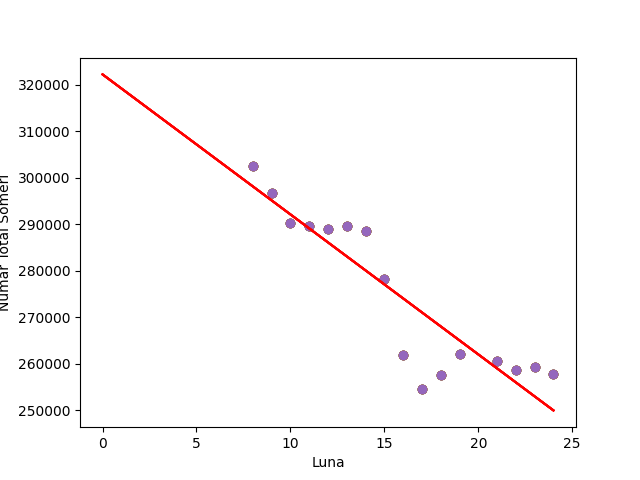
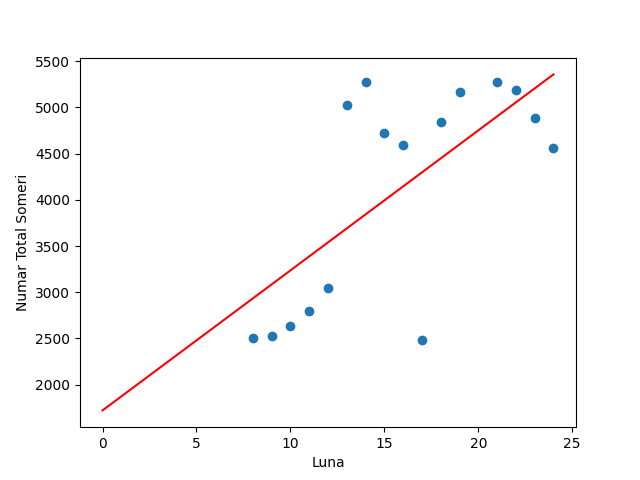
Fixed minor issues regarding PredictionApp

diff --git a/PredictionApp/unemployed_data.py b/PredictionApp/unemployed_data.py
@@ -9,18 +9,19 @@ class UnemployedData:
         month = None;
 
     @staticmethod
-    def extract_data(input_document_format, plot_file_format, output_file_format, feature_name, label_name):
+    def extract_data(input_document_format, column_number, epochs, plot_file_format, output_file_format, feature_name, label_name):
         years = [2018, 2019];
         months = ['ianuarie', 'februarie', 'martie', 'aprilie', 'mai', 'iunie', 'iulie', 'august', 'septembrie', 'octombrie', 'noiembrie', 'decembrie'];
 
         documents = UnemployedData.get_unemployed_data(input_document_format, years, months);
-        dataframe = UnemployedData.map_dataframe(documents);
+        dataframe = UnemployedData.map_dataframe(documents, column_number);
 
         datalist = lr.LinearRegression.get_datalist_from_dataframe(dataframe);
-        [w0, w1] = lr.LinearRegression.linear_regression(datalist, 100000, label_name);
+        [w0, w1] = lr.LinearRegression.linear_regression(datalist, epochs, label_name);
 
         plot = lr.LinearRegression.plot_model(w0, w1, datalist,  'Luna', 'Numar Total Someri');
         plot.savefig(plot_file_format);
+        plot.close();
 
         output_file = open(output_file_format, 'w');
         output_file_content = 'w0 = %f\nw1 = %f' % (w0, w1);
@@ -45,13 +46,13 @@ class UnemployedData:
         return documents;
 
     @staticmethod
-    def map_dataframe(documents):
+    def map_dataframe(documents, column_number):
         luni = []
         somaj = [];
         for document in documents:
             luni.append(document.month);
             
-            valoare_somaj = document.value.iloc[:, 1].tail(1).head(1).iloc[-1];
+            valoare_somaj = document.value.iloc[:, 1].tail(column_number).head(1).iloc[-1];
             valoare_somaj = int(re.sub('[^0-9]', '', str(valoare_somaj)));
             somaj.append(valoare_somaj);
 

diff --git a/PredictionApp/predict.py b/PredictionApp/predict.py
@@ -1,6 +1,7 @@
 import unemployed_data as ud;
 
 input_document_format = './Data/medii-somaj-%s-%d.csv';
+epochs = 10000;
 
 plot_folder = './Plots/';
 output_folder = './Output/';
@@ -13,7 +14,7 @@ file_formats = ['numar-total-someri', 'numar-total-someri-femei', 'numar-total-s
 label_names = ['Numar Total Someri', 'Numar Total Someri Femei', 'Numar Total Someri Barbati', 'Numar Total Someri Din Mediul Urban', 'Numar Someri Femei Din Mediul Urban', 'Numar Someri Barbati Din Mediul Urban',
     'Numar Total Someri Din Mediul Rural', 'Numar Someri Femei Din Mediul Rural', 'Numar Someri Barbati Din Mediul Rural'];
 
-for file_format in range(len(file_formats)):
-    plot_file_format = '%s%s%s' % (plot_folder, file_formats[file_format], plot_file_extension);
-    output_file_format = '%s%s%s' % (output_folder, file_formats[file_format], output_file_extension);
-    ud.UnemployedData.extract_data(input_document_format, plot_file_format, output_file_format, feature_name, label_names[file_format]);
+for file_format_iterator in range(len(file_formats)):
+    plot_file_format = '%s%s%s' % (plot_folder, file_formats[file_format_iterator], plot_file_extension);
+    output_file_format = '%s%s%s' % (output_folder, file_formats[file_format_iterator], output_file_extension);
+    ud.UnemployedData.extract_data(input_document_format, file_format_iterator + 1, epochs, plot_file_format, output_file_format, feature_name, label_names[file_format_iterator]);
